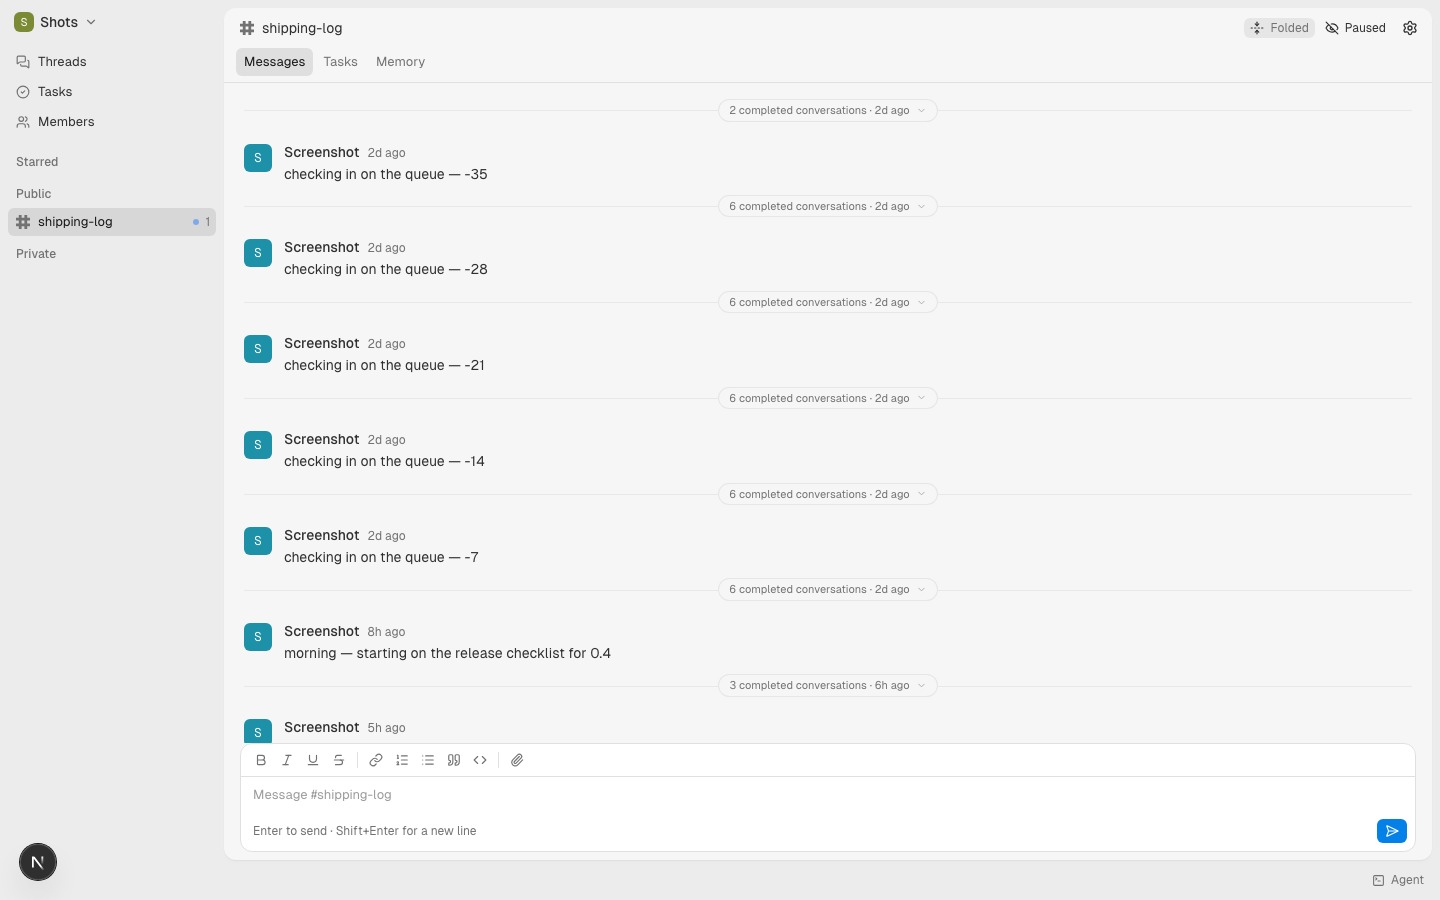
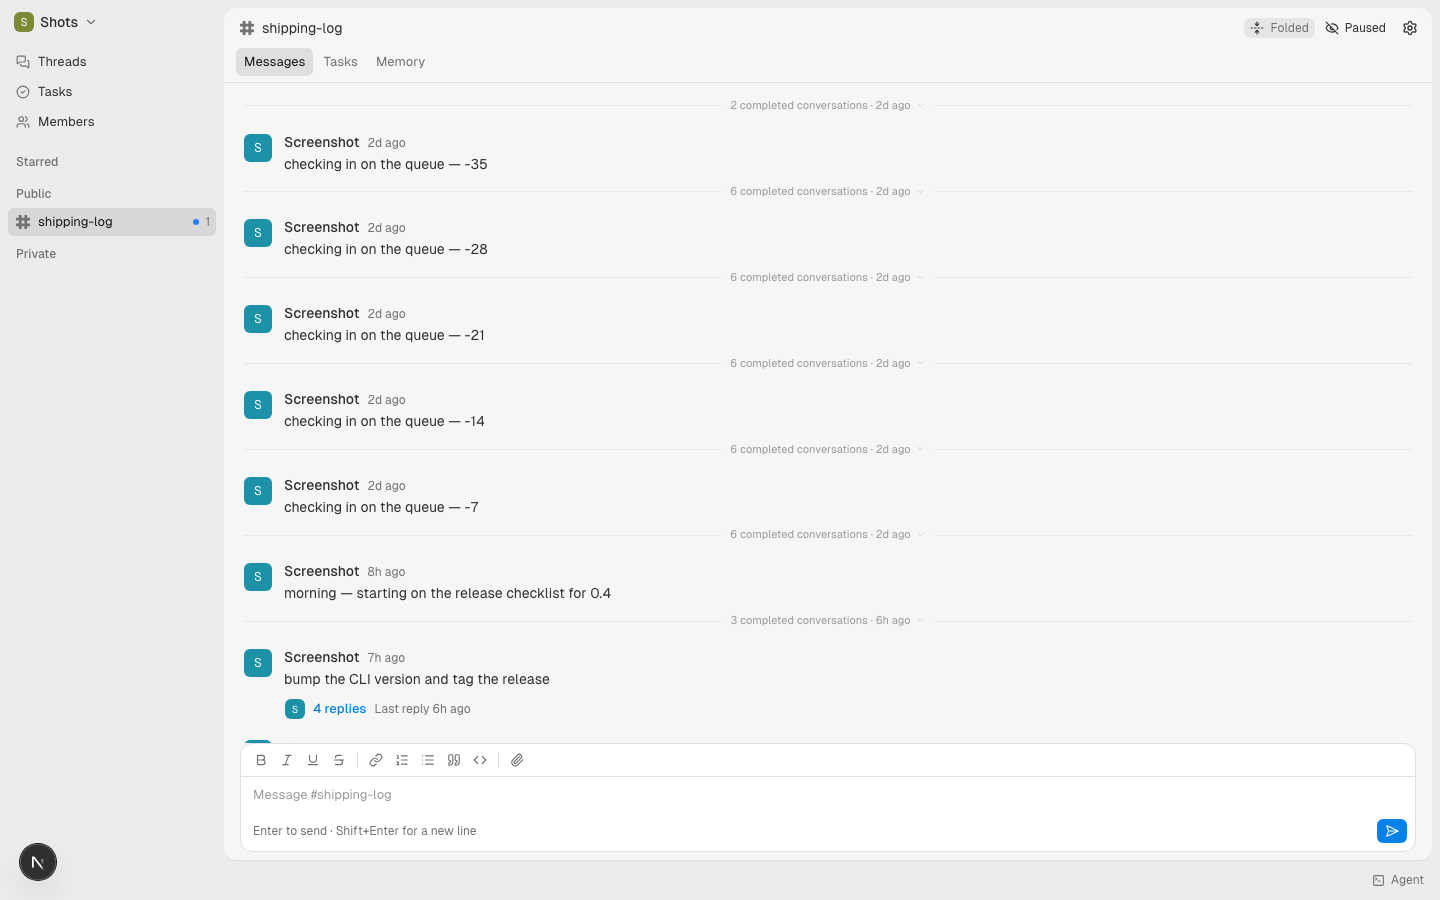
feat(web): settle the band on the bare seam
Of the options put side by side, this is the one chosen: the hairline with
small muted text sitting on it, no border, no fill beyond the paint that
masks the rule, chevron at 40% that turns over when the band opens. The text
lifts to full muted on hover.

It trades the at-rest affordance the outline was carrying for a row that
disappears into the transcript until you look for it. Fold a channel of real
work and the messages are what is left standing, which is the point.

diff --git a/apps/web/src/components/messages/completed-band.tsx b/apps/web/src/components/messages/completed-band.tsx
@@ -21,7 +21,7 @@ export const CompletedBand = memo(function CompletedBand({
   onToggle,
 }: CompletedBandProps) {
   return (
-    <div className="relative px-3 py-2 sm:px-5">
+    <div className="group/band relative px-3 py-1.5 sm:px-5">
       <span
         aria-hidden
         className="border-border/60 absolute inset-x-3 top-1/2 border-t sm:inset-x-5"
@@ -31,14 +31,14 @@ export const CompletedBand = memo(function CompletedBand({
           type="button"
           onClick={onToggle}
           aria-expanded={expanded}
-          className="bg-background-2 border-border/70 text-muted-foreground hover:border-border hover:text-foreground flex items-center gap-1.5 rounded-full border px-2.5 py-0.5 text-[11px]"
+          className="bg-background-2 text-muted-foreground/70 group-hover/band:text-muted-foreground flex items-center gap-1 px-2 text-[11px]"
         >
           <span suppressHydrationWarning>
             {`${bandLabel(count)} · ${relativeTime(lastAt)}`}
           </span>
           <ChevronDown
             size={11}
-            className={cn("shrink-0 opacity-60", expanded && "rotate-180")}
+            className={cn("shrink-0 opacity-40", expanded && "rotate-180")}
           />
         </button>
       </span>
